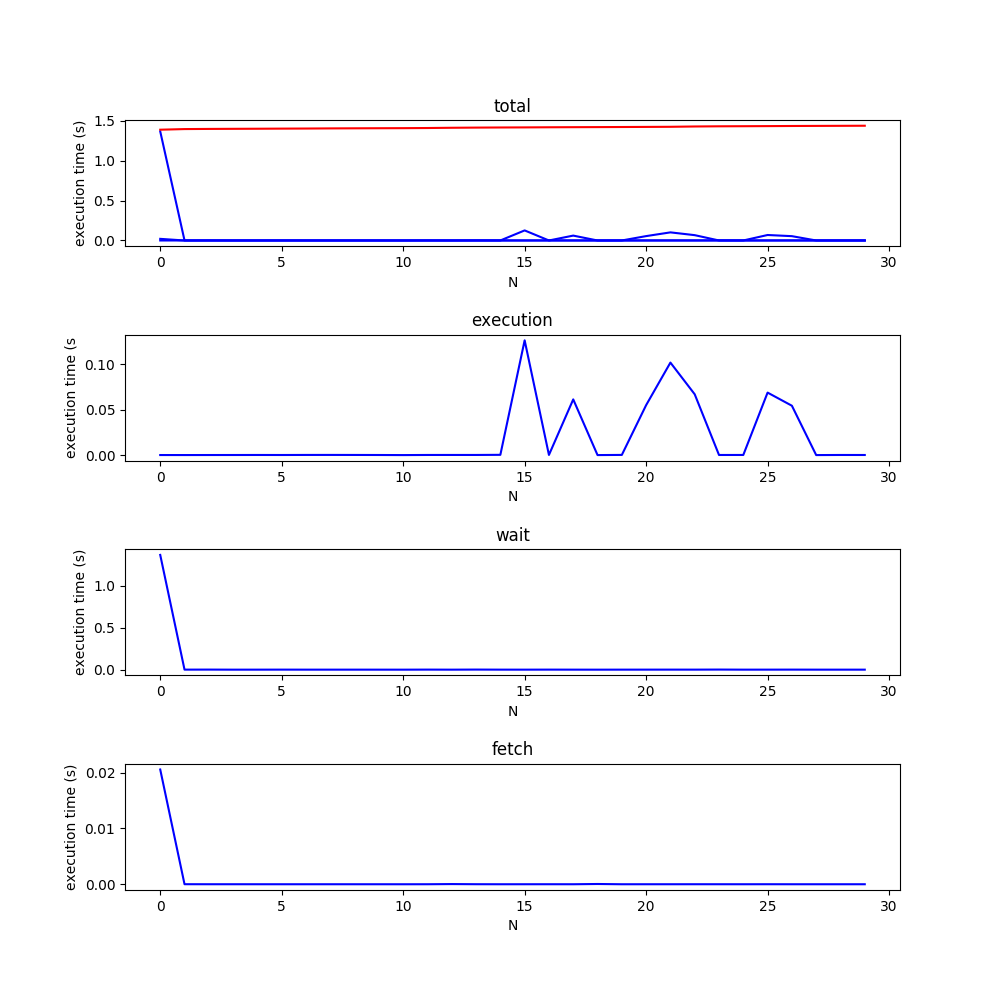
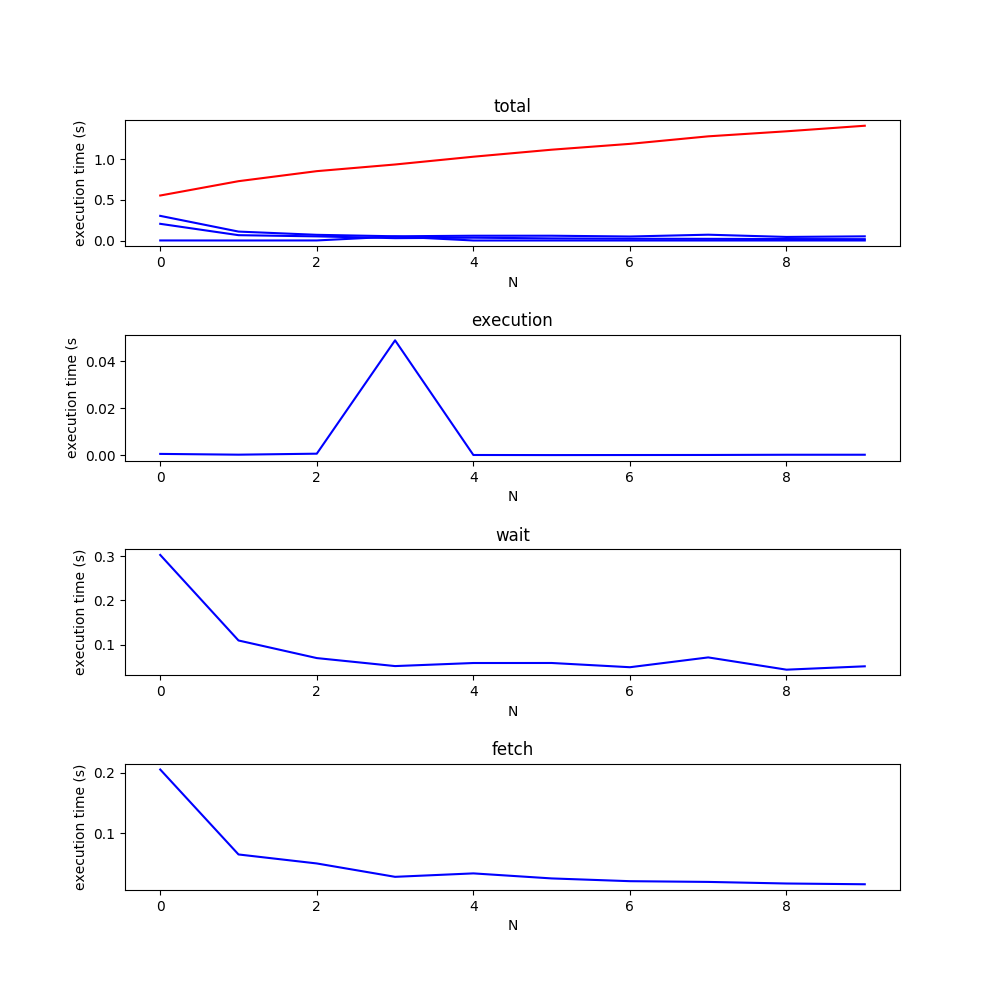
update query_async_pool_Ntimes

diff --git a/starters.py b/starters.py
@@ -81,12 +81,23 @@ def exe_query_async_Ntimes(query, N):
     #plot_perf(times_fetch,'async_fetch')
     #plot_perf(times_wait, 'async_wait')
     
+def test_pool():
+    pool = co.create_connection_pool(1,nbpool,"postgis_test","postgres","admin","localhost","5432",1)
+
+    aconn = pool.getconn()
+    wait(aconn)
+    psycopg2.extras.wait_select(aconn)
+    #print("wait aconn ok")
+    acurs = aconn.cursor()
+
+    start = time.perf_counter()
+    acurs.execute(query)
 
 
 def query_async_pool_Ntimes(query,N,nbpool):
    
     pool = co.create_connection_pool(1,nbpool,"postgis_test","postgres","admin","localhost","5432",1)
-    time.sleep(3)
+    #time.sleep(3)
     times_exe = []
     times_fetch = []
     times_wait = []
@@ -96,6 +107,7 @@ def query_async_pool_Ntimes(query,N,nbpool):
     cursors = []
     connections = []
 
+    print("Starting queries")
     for i in range(N):
         aconn  = pool.getconn()
         connections.append(aconn)
@@ -104,7 +116,7 @@ def query_async_pool_Ntimes(query,N,nbpool):
             print("get conn ok")
             #time.sleep(3)
             wait(aconn)
-            psycopg2.extras.wait_select(aconn)
+            #psycopg2.extras.wait_select(aconn)
             #print("wait aconn ok")
             acurs = aconn.cursor()
 
@@ -117,6 +129,7 @@ def query_async_pool_Ntimes(query,N,nbpool):
             cursors.append(acurs)
             #pool.putconn(aconn)
 
+    print("Gettting results")
     for cur in cursors:
         swait = time.perf_counter()
         wait(cur.connection)
@@ -125,6 +138,7 @@ def query_async_pool_Ntimes(query,N,nbpool):
         times_wait.append(runtime_wait)
 
         result = cur.fetchall()
+        qu.test_raster_results(result)
         end_fetch = time.perf_counter()
         runtime_fetchall = end_fetch - ewait
         times_fetch.append(runtime_fetchall)
@@ -133,7 +147,7 @@ def query_async_pool_Ntimes(query,N,nbpool):
 
         print("query done")
         #acurs.close()
-        pool.putconn(aconn)
+        pool.putconn(connections[cursors.index(cur)])
                         
     #results = execute_read_query(ps_connection, query)
     #bd.plot_perf(times_exe,'execution')

diff --git a/queries.py b/queries.py
@@ -8,6 +8,7 @@ import time
 import bd
 import connections
 import starters
+from rasterio.io import MemoryFile
 
 def query_with_pool(pool, query):
 
@@ -143,3 +144,17 @@ def get_image(connection, table, coord_x, coord_y, resolution_x, resolution_y):
                 print(infos_raster(dataset,data_array))
 
     return results[1]
+
+
+def test_raster_results(results):
+    for row in results:
+    #   print(row)
+        rast = bytes(row[0])
+
+        with MemoryFile(rast) as memfile:
+            with memfile.open() as dataset:
+
+                data_array = dataset.read(1)
+                #read(1) returns numpy array contenant les valeurs de raster pour la bande 1
+                            
+                print(infos_raster(dataset,data_array))
